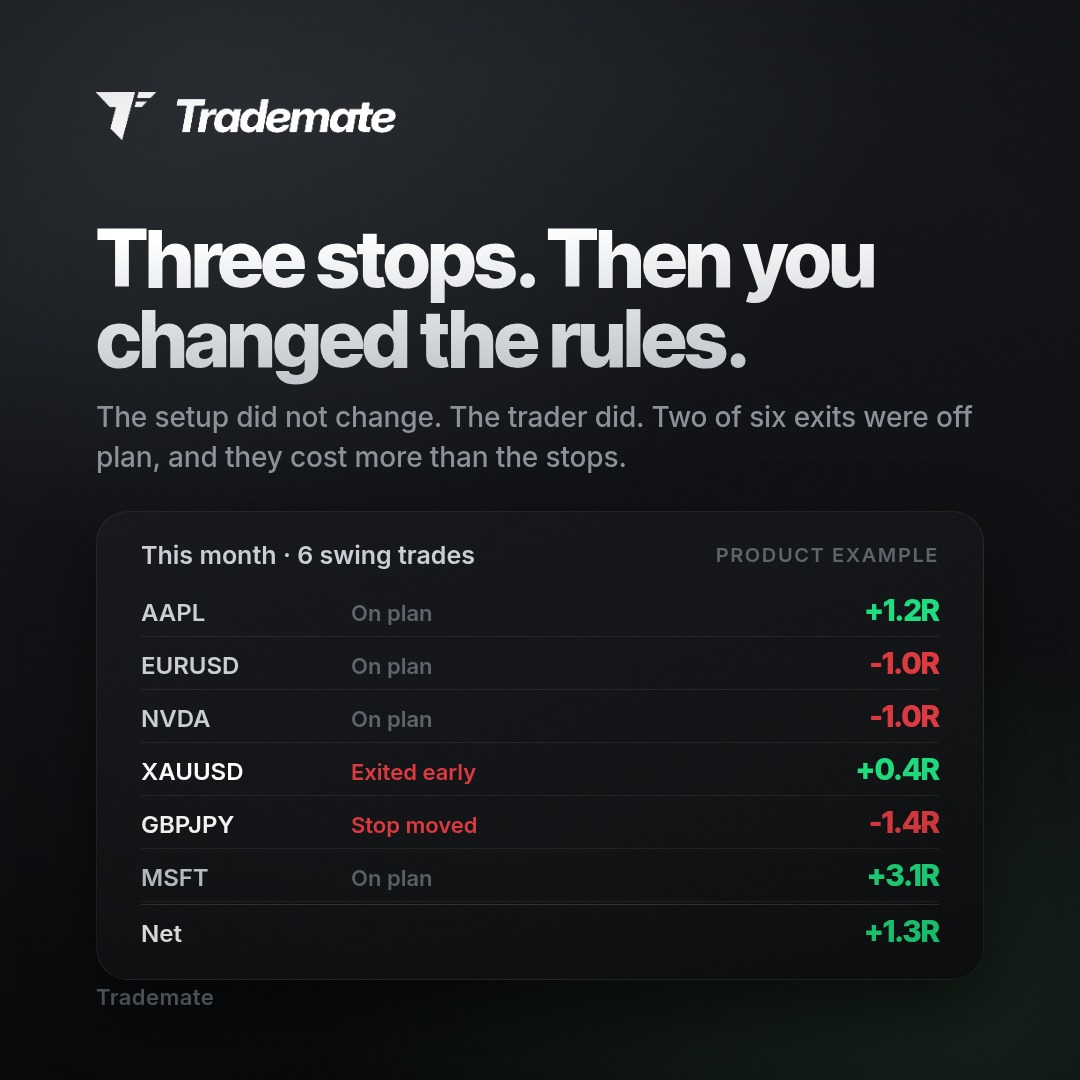
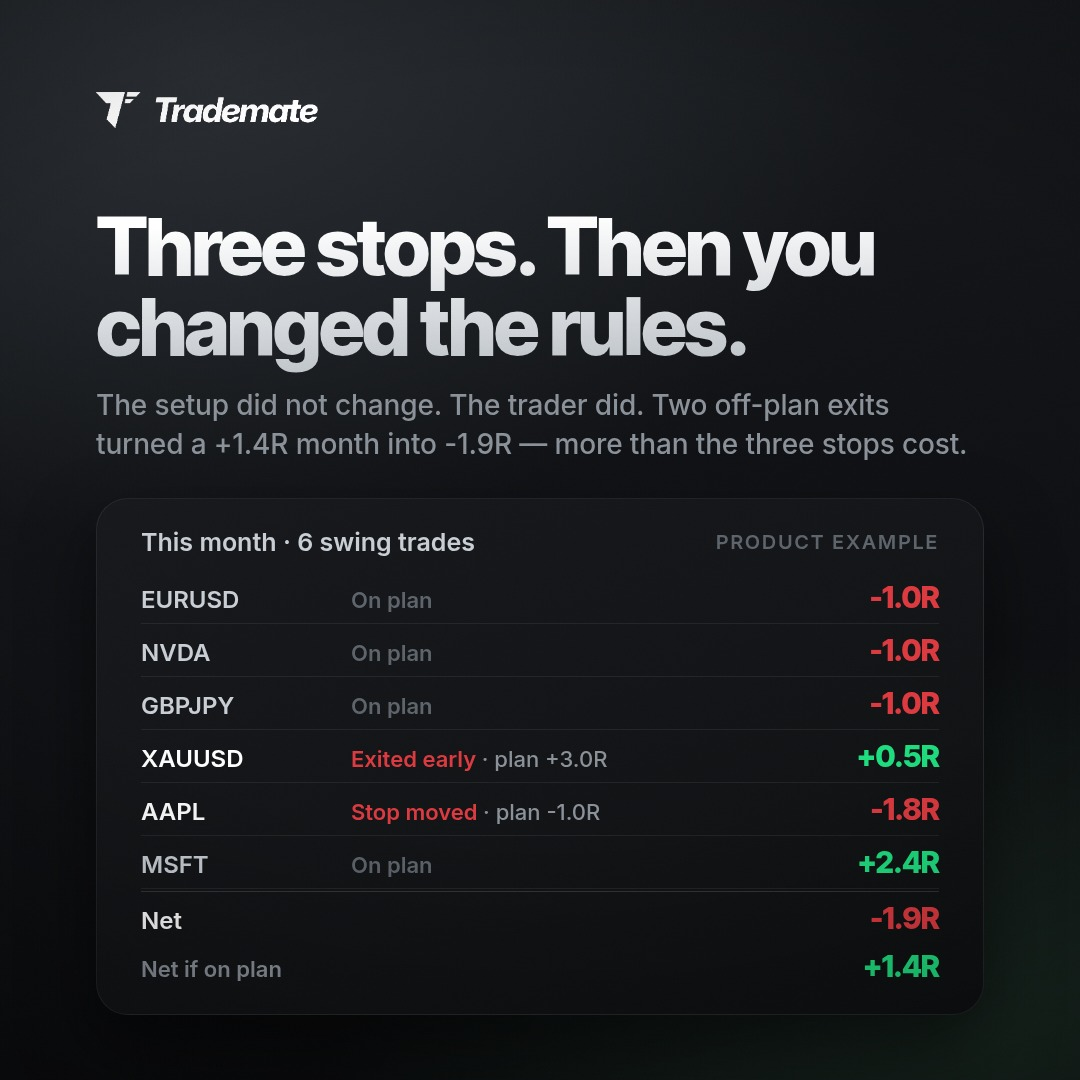
Pain posts: single brand mark, chart inside the card, coherent swing math
Drops the footer wordmark (the logo already carries the brand) and
scales the logo down. The running-P&L chart was 880px wide inside an
800px card and ran past its edge; it now fits. The swing table is
re-sequenced so the numbers tell the story the headline claims: three
stops, then an early exit against a +3.0R plan and a moved stop against
a -1.0R plan. As traded -1.9R, on plan +1.4R, so the two deviations
(3.3R) cost more than the three stops (3.0R).

Claude-Session: https://claude.ai/code/session_01N2gUmRZUhZ4hqjJePYK53L

diff --git a/posts/pain-day-swing/src/post.html b/posts/pain-day-swing/src/post.html
@@ -15,6 +15,7 @@
   #vig{position:absolute;inset:0;pointer-events:none;background:radial-gradient(120% 75% at 50% 42%, rgba(0,0,0,0) 46%, rgba(0,0,0,.42) 100%);}
 
   .logo{display:block;width:300px;}
+  body.sq .logo{width:222px;}
   body.st .logo{margin:0 auto;}
   .eyebrow{font-family:'Inter';font-size:22px;font-weight:600;letter-spacing:.24em;text-transform:uppercase;color:#7e868d;margin-top:70px;}
   body.st .eyebrow{text-align:center;margin-top:110px;}
@@ -117,6 +118,8 @@
   .rows.one>div.off em{color:#DC3A40;} .rows.one>div.off span{color:#fff;}
   .rows .net{grid-column:1/-1;border-bottom:none;padding-top:14px;margin-top:2px;border-top:1px solid rgba(255,255,255,.14);}
   .rows .net span{font-size:27px;color:#fff;} .rows .net b{font-size:44px;}
+  .rows .net.alt{padding-top:4px;margin-top:0;border-top:none;} .rows .net.alt span{font-size:22px;color:#8a9199;} .rows .net.alt b{font-size:30px;}
+  .rows.one>div em i{font-style:normal;color:#8a9199;font-weight:500;}
   body[data-slide="day"] .hl, body[data-slide="swing"] .hl{font-size:80px;}
   body[data-slide="day"] .sub, body[data-slide="swing"] .sub{font-size:30px;max-width:880px;}
   body[data-slide="swing"] .sub{font-size:28px;margin-top:20px;}
@@ -155,8 +158,8 @@ en:{
   disc:'Product concept. Features shown are planned, not final.',
   dayH:'Up $490 at 10:00. Flat at the close.', dayS:'Everything after the first red trade was an attempt to get it back. Six entries, none of them on the plan.',
   dayM:'Running P&L · one session', dayF:'Product example', dayHi:'High', dayCl:'Close',
-  swH:'Three stops. Then you changed the rules.', swS:'The setup did not change. The trader did. Two of six exits were off plan, and they cost more than the stops.',
-  swM:'This month · 6 swing trades', swN:'Net', swF:'Product example', plan:'On plan', early:'Exited early', moved:'Stop moved'
+  swH:'Three stops. Then you changed the rules.', swS:'The setup did not change. The trader did. Two off-plan exits turned a +1.4R month into -1.9R — more than the three stops cost.',
+  swM:'This month · 6 swing trades', swN:'Net', swP:'Net if on plan', swF:'Product example', plan:'On plan', early:'Exited early', moved:'Stop moved', planned:'plan'
 },
 de:{
   swipe:'Wischen →', brand:'Trademate', concept:'Konzept, kein finales UI', of:'von',
@@ -184,8 +187,8 @@ de:{
   disc:'Produktkonzept. Gezeigte Funktionen sind geplant, nicht final.',
   dayH:'Um 10:00 bei +$490. Zum Close auf null.', dayS:'Alles nach dem ersten roten Trade war der Versuch, es zurückzuholen. Sechs Entries, keiner davon nach Plan.',
   dayM:'Laufender P&L · eine Session', dayF:'Produktbeispiel', dayHi:'Hoch', dayCl:'Close',
-  swH:'Drei Stops. Dann hast du die Regeln geändert.', swS:'Das Setup war dasselbe. Der Trader nicht. Zwei von sechs Exits liefen nicht nach Plan – und kosteten mehr als die Stops.',
-  swM:'Dieser Monat · 6 Swing-Trades', swN:'Netto', swF:'Produktbeispiel', plan:'Nach Plan', early:'Zu früh raus', moved:'Stop verschoben'
+  swH:'Drei Stops. Dann hast du die Regeln geändert.', swS:'Das Setup war dasselbe. Der Trader nicht. Zwei Exits gegen den Plan machten aus +1,4R im Monat -1,9R – mehr, als die drei Stops gekostet haben.',
+  swM:'Dieser Monat · 6 Swing-Trades', swN:'Netto', swP:'Netto nach Plan', swF:'Produktbeispiel', plan:'Nach Plan', early:'Zu früh raus', moved:'Stop verschoben', planned:'Plan'
 }}[LANG];
 
 function candles(){ // deterministic little 5m chart for slide 6
@@ -210,7 +213,7 @@ const logo='<img class="logo" src="logo.png" alt="Trademate">';
 const foot=(n)=>'<div class="foot"><span>'+C.brand+'</span><span>'+(n<7?C.swipe:'')+'</span><span>'+n+' / 7</span></div>';
 function runningPnl(){
   const pts=[['09:00',310],['10:00',490],['11:00',370],['12:00',-40],['13:00',-135],['14:00',-75],['15:00',120],['16:00',35]];
-  const W=880,H=330,padL=44,padR=70,top=54,bot=54,min=-230,max=560;
+  const W=800,H=330,padL=44,padR=70,top=54,bot=54,min=-230,max=560;
   const x=i=>padL+i*(W-padL-padR)/(pts.length-1), y=v=>top+(max-v)/(max-min)*(H-top-bot);
   let d=pts.map((p,i)=>(i?'L':'M')+x(i)+' '+y(p[1])).join(' ');
   let s='<svg width="'+W+'" height="'+H+'" viewBox="0 0 '+W+' '+H+'">';
@@ -239,16 +242,15 @@ function hourBars(){
     s+='<text x="'+(x+bw/2)+'" y="'+(H-6)+'" text-anchor="middle" font-family="Inter" font-size="21" font-weight="600" fill="#7e868d">'+h+':00</text>';});
   return s+'</svg>';
 }
-const swingRows=[['AAPL','+1.2R','plan'],['EURUSD','-1.0R','plan'],['NVDA','-1.0R','plan'],['XAUUSD','+0.4R','early'],['GBPJPY','-1.4R','moved'],['MSFT','+3.1R','plan']];
+const swingRows=[['EURUSD','-1.0R','plan',''],['NVDA','-1.0R','plan',''],['GBPJPY','-1.0R','plan',''],['XAUUSD','+0.5R','early','+3.0R'],['AAPL','-1.8R','moved','-1.0R'],['MSFT','+2.4R','plan','']];
 const S={
  day:()=>logo+'<div class="hl" style="margin-top:78px">'+C.dayH+'</div><div class="sub">'+C.dayS+'</div>'
    +'<div class="card" style="margin-top:40px;padding:30px 44px 18px"><div class="hdr"><div class="t">'+C.dayM+'</div><div class="m">'+C.dayF+'</div></div><div style="margin-top:4px">'+runningPnl()+'</div></div>'
-   +'<div class="foot"><span>'+C.brand+'</span><span></span><span></span></div>',
+,
  swing:()=>logo+'<div class="hl" style="margin-top:78px">'+C.swH+'</div><div class="sub">'+C.swS+'</div>'
    +'<div class="card" style="margin-top:34px;padding:28px 44px 22px"><div class="hdr"><div class="t">'+C.swM+'</div><div class="m">'+C.swF+'</div></div>'
-   +'<div class="rows one">'+swingRows.map(([a,b,n])=>'<div'+(n!=='plan'?' class="off"':'')+'><span>'+a+'</span><em>'+C[n]+'</em><b class="'+(b[0]==='+'?'g':'r')+'">'+b+'</b></div>').join('')
-   +'<div class="net"><span>'+C.swN+'</span><b class="g">+1.3R</b></div></div></div>'
-   +'<div class="foot"><span>'+C.brand+'</span><span></span><span></span></div>',
+   +'<div class="rows one">'+swingRows.map(([a,b,n,pl])=>'<div'+(n!=='plan'?' class="off"':'')+'><span>'+a+'</span><em>'+C[n]+(pl?' <i>· '+C.planned+' '+pl+'</i>':'')+'</em><b class="'+(b[0]==='+'?'g':'r')+'">'+b+'</b></div>').join('')
+   +'<div class="net"><span>'+C.swN+'</span><b class="r">-1.9R</b></div><div class="net alt"><span>'+C.swP+'</span><b class="g">+1.4R</b></div></div></div>',
  1:()=>logo+'<div class="eyebrow">'+C.s1e+'</div><div class="hl">'+C.s1h+'</div><div class="sub">'+C.s1s+'</div>'+foot(1),
  2:()=>logo+'<div class="hl" style="margin-top:70px">'+C.s2h+'</div><div class="cols"><div class="col"><h3>'+C.day+'</h3><ul>'+C.d.map(x=>'<li>'+x+'</li>').join('')+'</ul></div><div class="col s"><h3>'+C.swing+'</h3><ul>'+C.s.map(x=>'<li>'+x+'</li>').join('')+'</ul></div></div>'+foot(2),
  3:()=>logo+'<div class="hl" style="margin-top:70px;font-size:74px">'+C.s3h+'</div><div class="sub">'+C.s3s+'</div>'

diff --git a/posts/story-feature-poll/src/post.html b/posts/story-feature-poll/src/post.html
@@ -15,6 +15,7 @@
   #vig{position:absolute;inset:0;pointer-events:none;background:radial-gradient(120% 75% at 50% 42%, rgba(0,0,0,0) 46%, rgba(0,0,0,.42) 100%);}
 
   .logo{display:block;width:300px;}
+  body.sq .logo{width:222px;}
   body.st .logo{margin:0 auto;}
   .eyebrow{font-family:'Inter';font-size:22px;font-weight:600;letter-spacing:.24em;text-transform:uppercase;color:#7e868d;margin-top:70px;}
   body.st .eyebrow{text-align:center;margin-top:110px;}
@@ -117,6 +118,8 @@
   .rows.one>div.off em{color:#DC3A40;} .rows.one>div.off span{color:#fff;}
   .rows .net{grid-column:1/-1;border-bottom:none;padding-top:14px;margin-top:2px;border-top:1px solid rgba(255,255,255,.14);}
   .rows .net span{font-size:27px;color:#fff;} .rows .net b{font-size:44px;}
+  .rows .net.alt{padding-top:4px;margin-top:0;border-top:none;} .rows .net.alt span{font-size:22px;color:#8a9199;} .rows .net.alt b{font-size:30px;}
+  .rows.one>div em i{font-style:normal;color:#8a9199;font-weight:500;}
   body[data-slide="day"] .hl, body[data-slide="swing"] .hl{font-size:80px;}
   body[data-slide="day"] .sub, body[data-slide="swing"] .sub{font-size:30px;max-width:880px;}
   body[data-slide="swing"] .sub{font-size:28px;margin-top:20px;}
@@ -155,8 +158,8 @@ en:{
   disc:'Product concept. Features shown are planned, not final.',
   dayH:'Up $490 at 10:00. Flat at the close.', dayS:'Everything after the first red trade was an attempt to get it back. Six entries, none of them on the plan.',
   dayM:'Running P&L · one session', dayF:'Product example', dayHi:'High', dayCl:'Close',
-  swH:'Three stops. Then you changed the rules.', swS:'The setup did not change. The trader did. Two of six exits were off plan, and they cost more than the stops.',
-  swM:'This month · 6 swing trades', swN:'Net', swF:'Product example', plan:'On plan', early:'Exited early', moved:'Stop moved'
+  swH:'Three stops. Then you changed the rules.', swS:'The setup did not change. The trader did. Two off-plan exits turned a +1.4R month into -1.9R — more than the three stops cost.',
+  swM:'This month · 6 swing trades', swN:'Net', swP:'Net if on plan', swF:'Product example', plan:'On plan', early:'Exited early', moved:'Stop moved', planned:'plan'
 },
 de:{
   swipe:'Wischen →', brand:'Trademate', concept:'Konzept, kein finales UI', of:'von',
@@ -184,8 +187,8 @@ de:{
   disc:'Produktkonzept. Gezeigte Funktionen sind geplant, nicht final.',
   dayH:'Um 10:00 bei +$490. Zum Close auf null.', dayS:'Alles nach dem ersten roten Trade war der Versuch, es zurückzuholen. Sechs Entries, keiner davon nach Plan.',
   dayM:'Laufender P&L · eine Session', dayF:'Produktbeispiel', dayHi:'Hoch', dayCl:'Close',
-  swH:'Drei Stops. Dann hast du die Regeln geändert.', swS:'Das Setup war dasselbe. Der Trader nicht. Zwei von sechs Exits liefen nicht nach Plan – und kosteten mehr als die Stops.',
-  swM:'Dieser Monat · 6 Swing-Trades', swN:'Netto', swF:'Produktbeispiel', plan:'Nach Plan', early:'Zu früh raus', moved:'Stop verschoben'
+  swH:'Drei Stops. Dann hast du die Regeln geändert.', swS:'Das Setup war dasselbe. Der Trader nicht. Zwei Exits gegen den Plan machten aus +1,4R im Monat -1,9R – mehr, als die drei Stops gekostet haben.',
+  swM:'Dieser Monat · 6 Swing-Trades', swN:'Netto', swP:'Netto nach Plan', swF:'Produktbeispiel', plan:'Nach Plan', early:'Zu früh raus', moved:'Stop verschoben', planned:'Plan'
 }}[LANG];
 
 function candles(){ // deterministic little 5m chart for slide 6
@@ -210,7 +213,7 @@ const logo='<img class="logo" src="logo.png" alt="Trademate">';
 const foot=(n)=>'<div class="foot"><span>'+C.brand+'</span><span>'+(n<7?C.swipe:'')+'</span><span>'+n+' / 7</span></div>';
 function runningPnl(){
   const pts=[['09:00',310],['10:00',490],['11:00',370],['12:00',-40],['13:00',-135],['14:00',-75],['15:00',120],['16:00',35]];
-  const W=880,H=330,padL=44,padR=70,top=54,bot=54,min=-230,max=560;
+  const W=800,H=330,padL=44,padR=70,top=54,bot=54,min=-230,max=560;
   const x=i=>padL+i*(W-padL-padR)/(pts.length-1), y=v=>top+(max-v)/(max-min)*(H-top-bot);
   let d=pts.map((p,i)=>(i?'L':'M')+x(i)+' '+y(p[1])).join(' ');
   let s='<svg width="'+W+'" height="'+H+'" viewBox="0 0 '+W+' '+H+'">';
@@ -239,16 +242,15 @@ function hourBars(){
     s+='<text x="'+(x+bw/2)+'" y="'+(H-6)+'" text-anchor="middle" font-family="Inter" font-size="21" font-weight="600" fill="#7e868d">'+h+':00</text>';});
   return s+'</svg>';
 }
-const swingRows=[['AAPL','+1.2R','plan'],['EURUSD','-1.0R','plan'],['NVDA','-1.0R','plan'],['XAUUSD','+0.4R','early'],['GBPJPY','-1.4R','moved'],['MSFT','+3.1R','plan']];
+const swingRows=[['EURUSD','-1.0R','plan',''],['NVDA','-1.0R','plan',''],['GBPJPY','-1.0R','plan',''],['XAUUSD','+0.5R','early','+3.0R'],['AAPL','-1.8R','moved','-1.0R'],['MSFT','+2.4R','plan','']];
 const S={
  day:()=>logo+'<div class="hl" style="margin-top:78px">'+C.dayH+'</div><div class="sub">'+C.dayS+'</div>'
    +'<div class="card" style="margin-top:40px;padding:30px 44px 18px"><div class="hdr"><div class="t">'+C.dayM+'</div><div class="m">'+C.dayF+'</div></div><div style="margin-top:4px">'+runningPnl()+'</div></div>'
-   +'<div class="foot"><span>'+C.brand+'</span><span></span><span></span></div>',
+,
  swing:()=>logo+'<div class="hl" style="margin-top:78px">'+C.swH+'</div><div class="sub">'+C.swS+'</div>'
    +'<div class="card" style="margin-top:34px;padding:28px 44px 22px"><div class="hdr"><div class="t">'+C.swM+'</div><div class="m">'+C.swF+'</div></div>'
-   +'<div class="rows one">'+swingRows.map(([a,b,n])=>'<div'+(n!=='plan'?' class="off"':'')+'><span>'+a+'</span><em>'+C[n]+'</em><b class="'+(b[0]==='+'?'g':'r')+'">'+b+'</b></div>').join('')
-   +'<div class="net"><span>'+C.swN+'</span><b class="g">+1.3R</b></div></div></div>'
-   +'<div class="foot"><span>'+C.brand+'</span><span></span><span></span></div>',
+   +'<div class="rows one">'+swingRows.map(([a,b,n,pl])=>'<div'+(n!=='plan'?' class="off"':'')+'><span>'+a+'</span><em>'+C[n]+(pl?' <i>· '+C.planned+' '+pl+'</i>':'')+'</em><b class="'+(b[0]==='+'?'g':'r')+'">'+b+'</b></div>').join('')
+   +'<div class="net"><span>'+C.swN+'</span><b class="r">-1.9R</b></div><div class="net alt"><span>'+C.swP+'</span><b class="g">+1.4R</b></div></div></div>',
  1:()=>logo+'<div class="eyebrow">'+C.s1e+'</div><div class="hl">'+C.s1h+'</div><div class="sub">'+C.s1s+'</div>'+foot(1),
  2:()=>logo+'<div class="hl" style="margin-top:70px">'+C.s2h+'</div><div class="cols"><div class="col"><h3>'+C.day+'</h3><ul>'+C.d.map(x=>'<li>'+x+'</li>').join('')+'</ul></div><div class="col s"><h3>'+C.swing+'</h3><ul>'+C.s.map(x=>'<li>'+x+'</li>').join('')+'</ul></div></div>'+foot(2),
  3:()=>logo+'<div class="hl" style="margin-top:70px;font-size:74px">'+C.s3h+'</div><div class="sub">'+C.s3s+'</div>'

diff --git a/posts/pain-day-swing/captions.md b/posts/pain-day-swing/captions.md
@@ -34,11 +34,11 @@ Sieh deine Session als laufenden P&L — 7 Tage kostenlos, Link in Bio.
 
 EN
 Three stops in a row is the setup doing what setups do. What happened on the
-fourth trade is the part that costs money: out early at +0.4R on a trade
-that was planned for +2R, then a stop moved on the fifth that turned −1R into
-−1.4R. The setup did not change. The trader did. Two off-plan exits cost more
-than the three stops combined, and the month still reads +1.3R — which is
-exactly why nobody notices. Product example: these figures illustrate the
+fourth trade is the part that costs money: out early at +0.5R on a trade
+planned for +3R, then a stop moved on the fifth that turned −1R into −1.8R.
+The setup did not change. The trader did. On plan, the month closes +1.4R.
+As traded, it closes −1.9R. The two deviations cost 3.3R — more than the
+three stops combined. Product example: these figures illustrate the
 feature, not real trader results.
 
 Tag every off-plan exit — Trademate, link in bio.
@@ -47,11 +47,11 @@ Tag every off-plan exit — Trademate, link in bio.
 
 DE
 Drei Stops in Folge sind das Setup, das tut, was Setups tun. Was beim vierten
-Trade passiert, ist der Teil, der Geld kostet: raus bei +0,4R in einem Trade,
-der auf +2R geplant war, dann beim fünften ein verschobener Stop, der aus −1R
-−1,4R macht. Das Setup war dasselbe. Der Trader nicht. Zwei Exits gegen den
-Plan kosteten mehr als die drei Stops zusammen, und der Monat steht trotzdem
-bei +1,3R — genau deshalb fällt es niemandem auf. Produktbeispiel: Die Zahlen
+Trade passiert, ist der Teil, der Geld kostet: raus bei +0,5R in einem Trade,
+der auf +3R geplant war, dann beim fünften ein verschobener Stop, der aus −1R
+−1,8R macht. Das Setup war dasselbe. Der Trader nicht. Nach Plan schließt der
+Monat bei +1,4R. So gehandelt bei −1,9R. Die zwei Abweichungen kosteten 3,3R —
+mehr als die drei Stops zusammen. Produktbeispiel: Die Zahlen
 veranschaulichen die Funktion, keine echten Handelsergebnisse.
 
 Tagge jeden Exit gegen den Plan — Trademate, Link in Bio.
